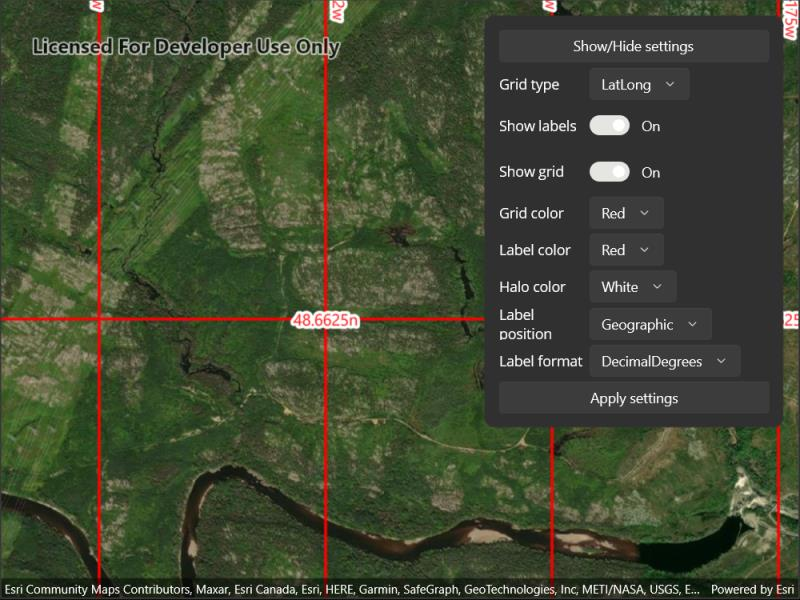
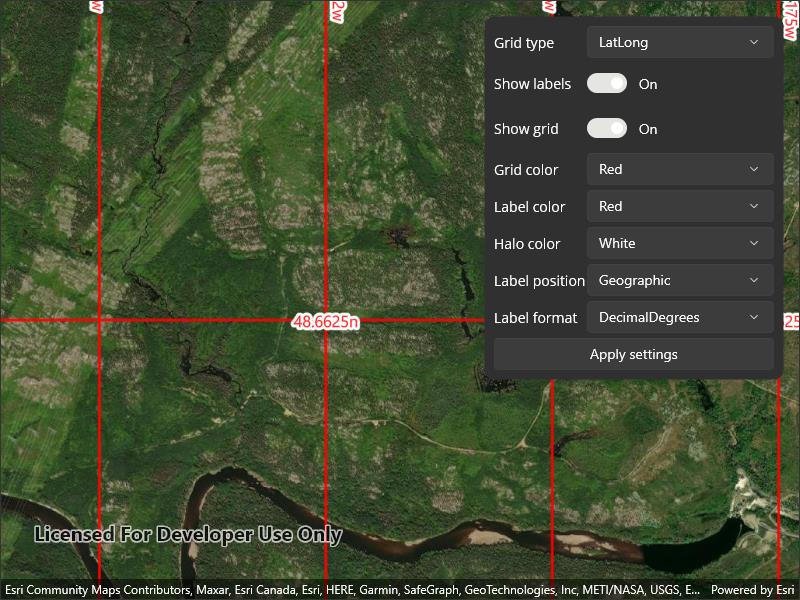
.NET MAUI `DisplayGrid`: fix ScrollView (#1329)

diff --git a/src/MAUI/Maui.Samples/Samples/MapView/DisplayGrid/DisplayGrid.xaml b/src/MAUI/Maui.Samples/Samples/MapView/DisplayGrid/DisplayGrid.xaml
@@ -7,107 +7,84 @@
     <Grid Style="{DynamicResource EsriSampleContainer}">
         <esriUI:MapView x:Name="MyMapView" Style="{DynamicResource EsriSampleGeoView}" />
         <Border Style="{DynamicResource EsriSampleControlPanel}">
-            <Grid Padding="5"
-                  RowDefinitions="auto,auto"
-                  RowSpacing="5">
-                <Button x:Name="ShowHideSettingsButton"
-                        Grid.Row="0"
-                        Text="Show/Hide settings" />
-                <ScrollView x:Name="SettingsScrollView"
+            <ScrollView Orientation="Vertical">
+                <Grid x:Name="SettingsGrid"
+                      ColumnDefinitions="*,2*"
+                      RowDefinitions="Auto,Auto,Auto,Auto,Auto,Auto,Auto,Auto,Auto"
+                      RowSpacing="5">
+                    <!--  Labels  -->
+                    <Label Text="Grid type"
+                           VerticalOptions="Center"
+                           VerticalTextAlignment="Center" />
+                    <Label Grid.Row="1"
+                           Text="Show labels"
+                           VerticalOptions="Center"
+                           VerticalTextAlignment="Center" />
+                    <Label Grid.Row="2"
+                           Text="Show grid"
+                           VerticalOptions="Center"
+                           VerticalTextAlignment="Center" />
+                    <Label Grid.Row="3"
+                           Text="Grid color"
+                           VerticalOptions="Center"
+                           VerticalTextAlignment="Center" />
+                    <Label Grid.Row="4"
+                           Text="Label color"
+                           VerticalOptions="Center"
+                           VerticalTextAlignment="Center" />
+                    <Label Grid.Row="5"
+                           Text="Halo color"
+                           VerticalOptions="Center"
+                           VerticalTextAlignment="Center" />
+                    <Label Grid.Row="6"
+                           Text="Label position"
+                           VerticalOptions="Center"
+                           VerticalTextAlignment="Center" />
+                    <Label Grid.Row="7"
+                           Text="Label format"
+                           VerticalOptions="Center"
+                           VerticalTextAlignment="Center" />
+                    <!--  Inputs  -->
+                    <Picker x:Name="GridTypePicker"
+                            Grid.Column="1"
+                            VerticalOptions="CenterAndExpand" />
+                    <Switch x:Name="LabelVisibilitySwitch"
                             Grid.Row="1"
-                            IsVisible="False">
-                    <Grid RowSpacing="5">
-                        <Grid.RowDefinitions>
-                            <RowDefinition Height="Auto" />
-                            <RowDefinition Height="Auto" />
-                            <RowDefinition Height="Auto" />
-                            <RowDefinition Height="Auto" />
-                            <RowDefinition Height="Auto" />
-                            <RowDefinition Height="Auto" />
-                            <RowDefinition Height="Auto" />
-                            <RowDefinition Height="Auto" />
-                            <RowDefinition Height="Auto" />
-                        </Grid.RowDefinitions>
-                        <Grid.ColumnDefinitions>
-                            <ColumnDefinition Width="*" />
-                            <ColumnDefinition Width="2*" />
-                        </Grid.ColumnDefinitions>
-                        <!--  Labels  -->
-                        <Label Grid.Row="0"
-                               Text="Grid type"
-                               VerticalOptions="Center"
-                               VerticalTextAlignment="Center" />
-                        <Label Grid.Row="1"
-                               Text="Show labels"
-                               VerticalOptions="Center"
-                               VerticalTextAlignment="Center" />
-                        <Label Grid.Row="2"
-                               Text="Show grid"
-                               VerticalOptions="Center"
-                               VerticalTextAlignment="Center" />
-                        <Label Grid.Row="3"
-                               Text="Grid color"
-                               VerticalOptions="Center"
-                               VerticalTextAlignment="Center" />
-                        <Label Grid.Row="4"
-                               Text="Label color"
-                               VerticalOptions="Center"
-                               VerticalTextAlignment="Center" />
-                        <Label Grid.Row="5"
-                               Text="Halo color"
-                               VerticalOptions="Center"
-                               VerticalTextAlignment="Center" />
-                        <Label Grid.Row="6"
-                               Text="Label position"
-                               VerticalOptions="Center"
-                               VerticalTextAlignment="Center" />
-                        <Label Grid.Row="7"
-                               Text="Label format"
-                               VerticalOptions="Center"
-                               VerticalTextAlignment="Center" />
-                        <!--  Inputs  -->
-                        <Picker x:Name="GridTypePicker"
-                                Grid.Row="0"
-                                Grid.Column="1"
-                                VerticalOptions="CenterAndExpand" />
-                        <Switch x:Name="LabelVisibilitySwitch"
-                                Grid.Row="1"
-                                Grid.Column="1"
-                                HorizontalOptions="Start"
-                                IsToggled="True" />
-                        <Switch x:Name="GridVisibilitySwitch"
-                                Grid.Row="2"
-                                Grid.Column="1"
-                                HorizontalOptions="Start"
-                                IsToggled="True" />
-                        <Picker x:Name="GridColorPicker"
-                                Grid.Row="3"
-                                Grid.Column="1"
-                                VerticalOptions="CenterAndExpand" />
-                        <Picker x:Name="LabelColorPicker"
-                                Grid.Row="4"
-                                Grid.Column="1"
-                                VerticalOptions="CenterAndExpand" />
-                        <Picker x:Name="HaloColorPicker"
-                                Grid.Row="5"
-                                Grid.Column="1"
-                                VerticalOptions="CenterAndExpand" />
-                        <Picker x:Name="LabelPositionPicker"
-                                Grid.Row="6"
-                                Grid.Column="1"
-                                VerticalOptions="CenterAndExpand" />
-                        <Picker x:Name="LabelFormatPicker"
-                                Grid.Row="7"
-                                Grid.Column="1"
-                                VerticalOptions="CenterAndExpand" />
-                        <Button x:Name="ApplySettingsButton"
-                                Grid.Row="8"
-                                Grid.ColumnSpan="2"
-                                IsEnabled="False"
-                                Text="Apply settings" />
-                    </Grid>
-                </ScrollView>
-            </Grid>
+                            Grid.Column="1"
+                            HorizontalOptions="Start"
+                            IsToggled="True" />
+                    <Switch x:Name="GridVisibilitySwitch"
+                            Grid.Row="2"
+                            Grid.Column="1"
+                            HorizontalOptions="Start"
+                            IsToggled="True" />
+                    <Picker x:Name="GridColorPicker"
+                            Grid.Row="3"
+                            Grid.Column="1"
+                            VerticalOptions="CenterAndExpand" />
+                    <Picker x:Name="LabelColorPicker"
+                            Grid.Row="4"
+                            Grid.Column="1"
+                            VerticalOptions="CenterAndExpand" />
+                    <Picker x:Name="HaloColorPicker"
+                            Grid.Row="5"
+                            Grid.Column="1"
+                            VerticalOptions="CenterAndExpand" />
+                    <Picker x:Name="LabelPositionPicker"
+                            Grid.Row="6"
+                            Grid.Column="1"
+                            VerticalOptions="CenterAndExpand" />
+                    <Picker x:Name="LabelFormatPicker"
+                            Grid.Row="7"
+                            Grid.Column="1"
+                            VerticalOptions="CenterAndExpand" />
+                    <Button x:Name="ApplySettingsButton"
+                            Grid.Row="8"
+                            Grid.ColumnSpan="2"
+                            IsEnabled="False"
+                            Text="Apply settings" />
+                </Grid>
+            </ScrollView>
         </Border>
     </Grid>
 </ContentPage>

diff --git a/src/MAUI/Maui.Samples/Samples/MapView/DisplayGrid/DisplayGrid.xaml.cs b/src/MAUI/Maui.Samples/Samples/MapView/DisplayGrid/DisplayGrid.xaml.cs
@@ -62,7 +62,6 @@ namespace ArcGIS.Samples.DisplayGrid
 
             // Subscribe to the button click events.
             ApplySettingsButton.Clicked += ApplySettingsButton_Clicked;
-            ShowHideSettingsButton.Clicked += ShowHideSettingsButton_Clicked;
 
             // Enable the action button.
             ApplySettingsButton.IsEnabled = true;
@@ -73,11 +72,6 @@ namespace ArcGIS.Samples.DisplayGrid
 
             // Apply default settings.
             ApplySettingsButton_Clicked(this, null);
-        }
-
-        private void ShowHideSettingsButton_Clicked(object sender, EventArgs e)
-        {
-            SettingsScrollView.IsVisible = !SettingsScrollView.IsVisible;
         }
 
         private void ApplySettingsButton_Clicked(object sender, EventArgs e)
